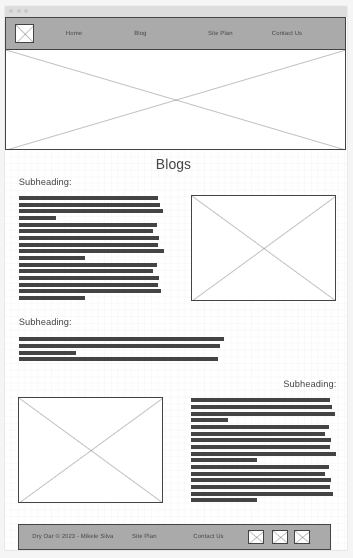
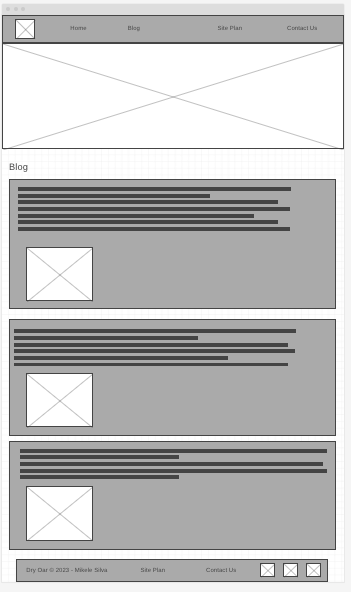
long story

diff --git a/wwr/blogs.html b/wwr/blogs.html
@@ -1,0 +1,89 @@
+<!DOCTYPE html>
+<html lang="en">
+<head>
+    <meta charset="UTF-8">
+    <meta name="viewport" content="width=device-width, initial-scale=1.0">
+    <title>Blogs</title>
+    <link rel="stylesheet" href="styles/style.css">
+</head>
+<body>
+    <div id="content">
+        <header>
+            <a id="logo_link" href="index.html">
+                <img class="logo" src="images/logo.png" alt="Dry Oar Logo">
+            </a>
+            <nav>
+                <a href="index.html">Home</a>
+                <a href="blogs.html">Blogs</a>
+                <a href="site-plan-rafting.html">Site Plan</a>
+                <a href="contactus.html">Contact Us</a>
+            </nav>
+        </header>
+        <div id="hero">
+            <div id="hero-box">
+                <img id="hero-img" src="images/hero2.png" alt="People enjoying white water rafting">
+            </div>
+            <section id="hero-msg">
+                <h1 class="home-title">Have An Adventure</h1>
+                <h4>Make Memories with Dry Oar </h4>
+                <div class='button-box'>
+                    <a class='book' href="contactus.html">Book Now</a>
+                </div>
+            </section>
+        </div>
+
+        <main class="home-grid">
+            <section class="blog-section">
+                <h2>Blogs</h2>
+
+                <div class="blog-block">
+                    <h3>Next Summer booking open now!</h3>
+                    <p>Make sure to reserve your date now, we have limited runs on each river and they go fast. If you have only certain dates that you can get away you should book now.                    </p>
+                    <img class="blog-image" src="images/rafting1.jpeg" alt="Descripción de la imagen 1">
+                </div>
+
+                <div class="blog-block">
+                    <h3>Highlights from the past season</h3>
+                    <p>What an incredible season we have had. We celebrated our 50th year of running trips down the Grand Canyon. This year we ran 36 trips down the Grand Canyon introducing over 800 people to one of our favorite places on earth. We trained 4 new guides and welcomed them to our family. The season started off with some chilly weather in the early season, but our guests braved the cold and loved every minute of their trip (show pictures). Later the temperatures soared reaching highs of 120 F in the Grand canyon and 95 on the Salmon. We didn't have any trouble getting people in the water at those temperatures.</p>
+                    <img class="blog-image" src="images/camping2.jpeg" alt="Descripción de la imagen 2">
+                </div>
+
+                <div class="blog-block">
+                    <h3>Encounters in the wild!</h3>
+                    <p>Our trips are all run in some of the most remote areas of the United States. We share these areas with lots of critters both large and small. Here are some tips on what to do if you should find yourself face to face with one.
+
+                        Scorpions: There are hundreds of varieties of scorpions, most of them being harmless. There are, however, a handful of them that can be dangerous and even potentially lethal. Scorpions can be found in almost every ecosystem and are very adaptable to their environment. The scorpion that calls Phantom Ranch in the Grand Canyon home is the Bark Scorpion, the most venomous in the United States. Do not worry though, the bark scorpions are only lethal to their prey and luckily humans are not on that list!
+                        
+                        They spend the day hiding and crawl out at night to hunt. They will eat crickets, moths, spiders and other insects. Many compare their sting to an intense bee sting. Relief can be found with ice, aspirin and time.
+                        
+                        When in the canyon, pay attention to where you are walking at night. Always wear your shoes or sandals. Always have a light with you to see where you are going. Never try to capture a scorpion and if you get stung, see your guide immediately.
+                        
+                        Big horn sheep: For many people, bighorn sheep symbolize the rugged mountain west. It is one of two species of wild sheep in North America. It’s compact body is muscular with chocolate brown fur. Most weigh 160-250 lbs. They have exceptional vision, hearing and smell that helps them detect and avoid predators.
+                        
+                        Their large curved horns can weigh up to 30 lbs. Females also have horns but they are short with a slight curvature. Horns are used as tools for eating and fighting.
+                        
+                        If you encounter a big horn sheep, don’t agitate it. The park service asks that you stay 100 fee</p>
+                    <img class="blog-image" src="images/bighorn.jpeg" alt="Descripción de la imagen 3">
+                </div>
+
+        </main>
+
+        <footer>
+            <p>Dry Oar &copy; 2023 - Mikele Silva</p>
+    <p><a href="site-plan-rafting.html">Site Plan</a></p>
+    <p><a href="contactus.html">Contact Us</a></p>
+    <div class="Social">
+        <a href="https://facbook.com" target="_blank">
+            <img src="images/facebook.png" alt="fb icon">
+        </a>
+        <a href="https://twitter.com" target="_blank">
+            <img src="images/twitter.png" alt="twitter icon">
+        </a>
+        <a href="https://instagram.com" target="_blank">
+            <img src="images/instagram.png" alt="instagram icon">
+        </a>
+    </div>
+        </footer>
+    </div>
+</body>
+</html>

diff --git a/wwr/styles/style.css b/wwr/styles/style.css
@@ -235,3 +235,31 @@ nav {
         margin-top: 25px;
     }
 }
+.blog-section {
+    display: grid;
+    grid-template-columns: repeat(auto-fit, minmax(300px, 1fr));
+    gap: 20px;
+    text-align: center;
+}
+
+.blog-block {
+    text-align: left;
+    border: 2px solid #6f7364;
+    background-color: #42E2B8;
+    padding: 20px;
+    width: 400%; /* Asegura que cada blog-block ocupe todo el ancho de su contenedor */
+}
+
+.blog-block h3 {
+    margin-bottom: 10px;
+    text-decoration: underline;
+}
+
+.blog-block p {
+    margin-bottom: 10px;
+}
+
+.blog-block img {
+    max-width: 100%;
+}
+

diff --git a/wwr/index.html b/wwr/index.html
@@ -14,7 +14,7 @@
         </a>
         <nav>
             <a href="index.html">Home</a>
-            <a href="#">Page 2</a>
+            <a href="blogs.html">Blogs</a>
             <a href="site-plan-rafting.html">Site Plan</a>
             <a href="contactus.html">Contact Us</a>
         </nav>
